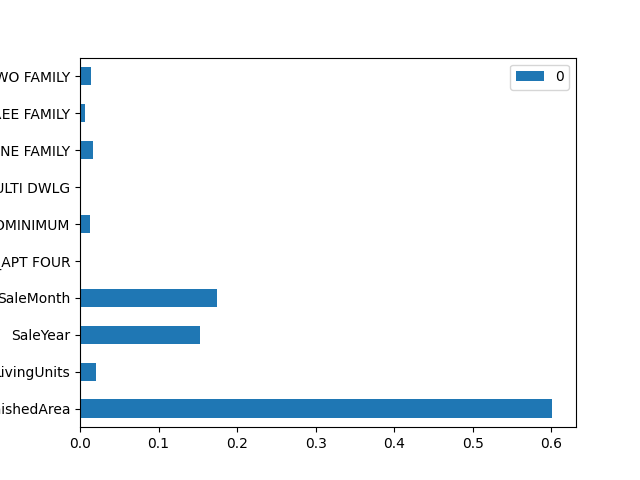
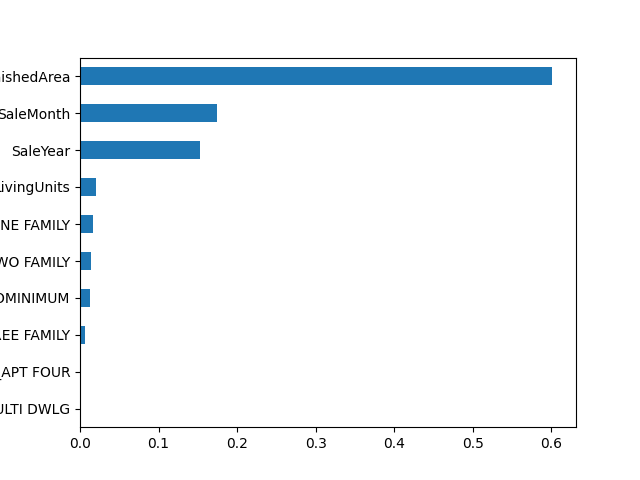
Edited and cleaned Random Forest

diff --git a/src/06_tree_model.py b/src/06_tree_model.py
@@ -2,6 +2,7 @@ import pandas as pd
 import numpy as np
 import matplotlib.pyplot as plt
 from sklearn.model_selection import train_test_split
+from sklearn.metrics import mean_squared_error
 from sklearn.ensemble import RandomForestRegressor
 from sklearn.inspection import partial_dependence, PartialDependenceDisplay
 
@@ -22,15 +23,20 @@ estimators = 100
 randForest = RandomForestRegressor(n_estimators=estimators, random_state=6243, oob_score=True)
 randForest.fit(X_train, y_train)
 rf_pred = randForest.predict(X_test)
+rf_mse = mean_squared_error(y_test, rf_pred)
+rf_rmse = np.sqrt(rf_mse)
+print("Random Forest MSE:", rf_mse)
+print("Random Forest RMSE:", rf_rmse)
 
 # calculating and displaying feature importance
 feat_imp = randForest.feature_importances_
-feature_imp_df = pd.DataFrame(feat_imp, index=cols)
-feature_imp_df.plot(kind="barh")
+feature_imp_df = pd.DataFrame(feat_imp, index=cols, columns=["Importance"])
+feature_imp_df = feature_imp_df.sort_values(by="Importance", ascending=True)
+feature_imp_df.plot(kind="barh", legend=False)
 plt.savefig("figures/random_forest_feature_importance.png")
 plt.show()
 
 #storing data
-pred_dict = {"yActual": y_test, "RandomForest": rf_pred}
-pred_df = pd.DataFrame(pred_dict)
+pred_df = pd.read_csv("data_processed/model_predictions.csv")
+pred_df["RandomForest"] = rf_pred
 pred_df.to_csv("data_processed/model_predictions.csv", index=False)

diff --git a/reports/Progress_log.md b/reports/Progress_log.md
@@ -160,6 +160,8 @@ Cross-validation results are consistent with test set performance, indicating st
  - TotalFinishedArea is the most important feature by permutation
  - SaleMonth and SaleYear are the next two most important
 
+ Interpretation: The Random Forest model achieved an MSE of approximately 0.0508, which is slightly higher than the Ridge regression model (~0.0434), indicating that it does not provide a performance improvement. Feature importance results show that TotalFinishedArea is by far the most influential predictor, followed by SaleMonth and SaleYear, suggesting that property size and timing play key roles in determining the price ratio.
+
 ## Step 11: Ridge Regression (Gradient Descent from Scratch Component)
 
  - fit a ridge regression model using both the closed form solution and gradient descent
